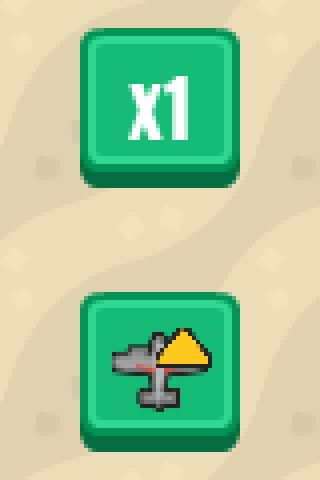
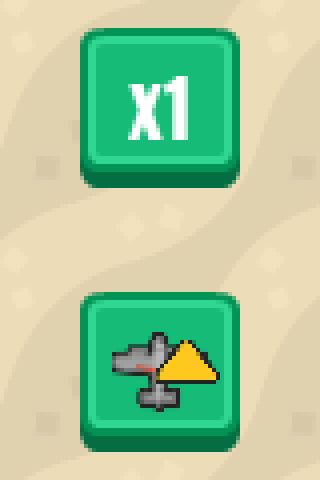
Make the upgrade arrow slightly bigger (58 px)

Changed region(s): [[0.4688, 0.6562, 0.6875, 0.8125]]

diff --git a/docs/devlog/2026-11-04-planes-icon.md b/docs/devlog/2026-11-04-planes-icon.md
@@ -49,7 +49,7 @@ lower left and the arrow in the upper right. On 2026-11-04 the owner decided to 
 the middle of the image and let the arrow overlap it
 ([#141](https://github.com/vectorviolet/chokepoint/issues/141)). Claude recomposed it from the same
 two Kenney sprites at the same display size (48 px in the 60 px button): the plane (92 px wide,
-dark outline) is centered on the 128 px canvas, and a smaller yellow arrow (52 px wide) sits at its
+dark outline) is centered on the 128 px canvas, and a smaller yellow arrow (58 px wide) sits at its
 upper right over the right wing, drawn on top.
 
 <table>
@@ -59,7 +59,7 @@ upper right over the right wing, drawn on top.
 </tr>
 </table>
 
-The arrow had to shrink (52 px instead of 64 px: at 64 px it hid the plane's nose), so it
+The arrow had to shrink (58 px instead of 64 px: at 64 px it hid the plane's nose), so it
 reads slightly smaller than before. The icon is still shown at 48 px; going to 32 px is a separate
 1.1 card.
 
